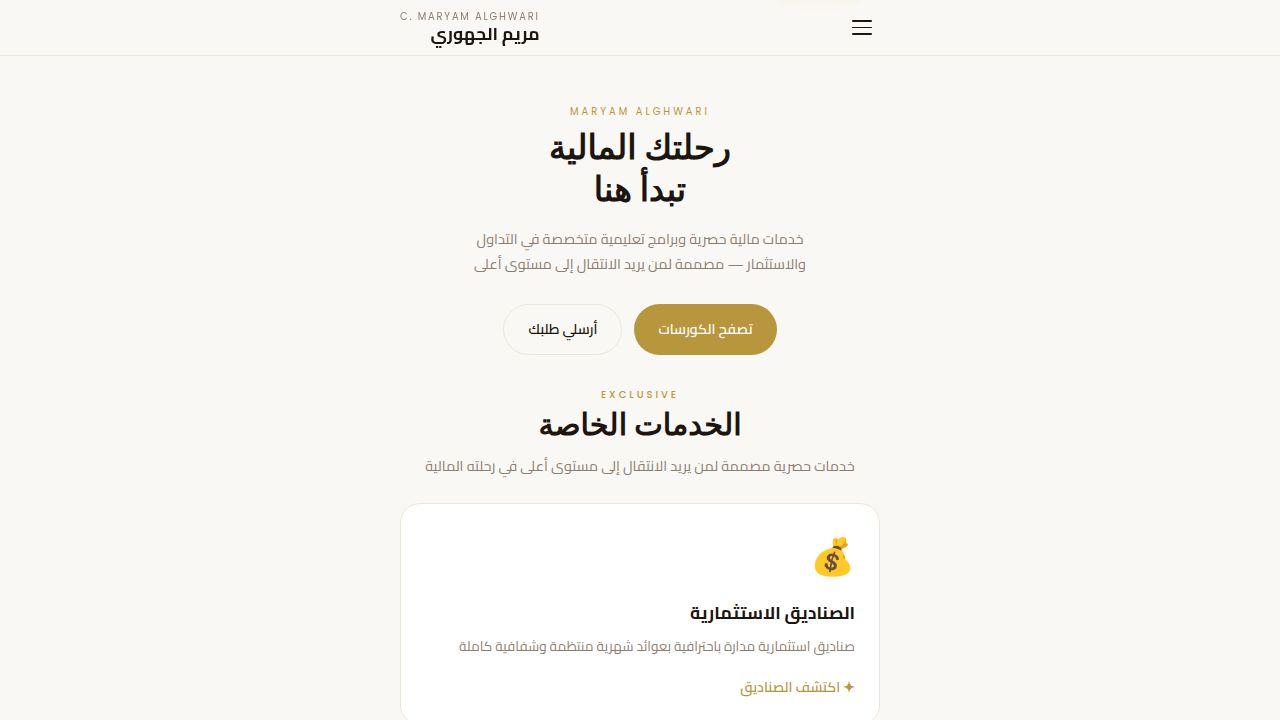
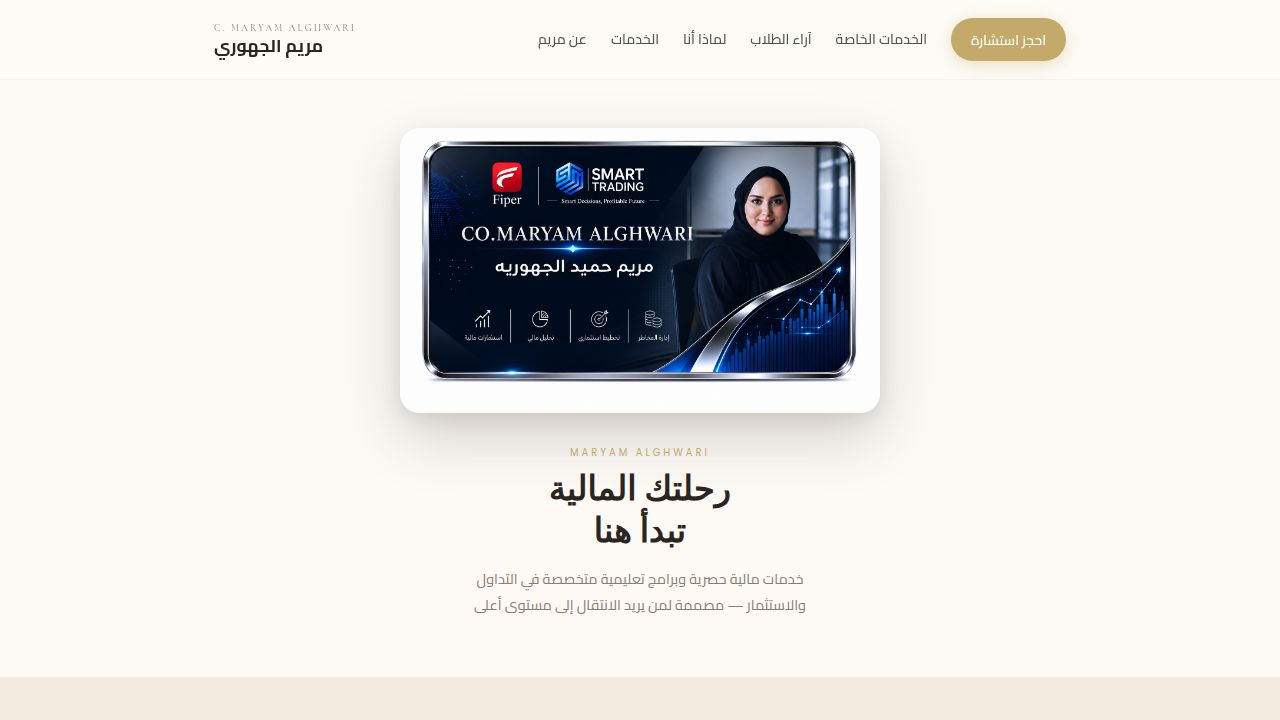
Add image to the financial journey section
Adds a new image to the hero section of the trading courses page and updates the server to serve static files from the public directory.

Replit-Commit-Author: Agent
Replit-Commit-Session-Id: cd811954-df86-4f2b-906e-686c9e095d0e
Replit-Commit-Checkpoint-Type: full_checkpoint
Replit-Commit-Event-Id: 3ccf5193-3b24-4c8f-bf66-b3141550a6aa
Replit-Commit-Screenshot-Url: https://storage.googleapis.com/screenshot-production-us-central1/88f454c8-2387-46a0-a1c7-ab1615058069/cd811954-df86-4f2b-906e-686c9e095d0e/Szr1Kxx
Replit-Helium-Checkpoint-Created: true

diff --git a/artifacts/trading-courses/index.html b/artifacts/trading-courses/index.html
@@ -219,6 +219,8 @@ body{font-family:var(--font-ar);background:var(--warm-white);color:var(--text);d
 
 /* ── Hero ── */
 .hero{text-align:center;padding:3rem 0 2rem}
+.hero-card-img{display:block;width:100%;max-width:640px;height:auto;margin:0 auto 2rem;border-radius:20px;box-shadow:0 24px 60px rgba(44,36,32,.2),0 6px 18px rgba(44,36,32,.08)}
+@media(max-width:600px){.hero-card-img{max-width:100%;border-radius:14px;margin-bottom:1.5rem}}
 .hero-label{font-family:var(--font-en);font-size:.62rem;letter-spacing:.3em;text-transform:uppercase;color:var(--gold);margin-bottom:.5rem}
 .hero-title{font-family:var(--font-serif);font-size:2.1rem;font-weight:600;line-height:1.25;margin-bottom:.875rem}
 .hero-desc{font-size:.9rem;color:var(--text-muted);max-width:340px;margin:0 auto 1.75rem;line-height:1.75}
@@ -673,6 +675,7 @@ body{font-family:var(--font-ar);background:var(--warm-white);color:var(--text);d
 <div class="view active" id="view-home">
   <div class="container">
     <div class="hero">
+      <img class="hero-card-img" src="maryam-card.png" alt="مريم حميد الجهورية - Co. Maryam Alghwari">
       <p class="hero-label">Maryam Alghwari</p>
       <h1 class="hero-title">رحلتك المالية<br>تبدأ هنا</h1>
       <p class="hero-desc">خدمات مالية حصرية وبرامج تعليمية متخصصة في التداول والاستثمار — مصممة لمن يريد الانتقال إلى مستوى أعلى</p>

diff --git a/artifacts/trading-courses/server.js b/artifacts/trading-courses/server.js
@@ -25,6 +25,19 @@ http.createServer((req, res) => {
     return;
   }
 
+  // Serve static files from public/
+  const safeUrl = req.url.split('?')[0];
+  if (safeUrl !== '/' && !safeUrl.startsWith('/api')) {
+    const filePath = path.join(__dirname, 'public', path.normalize(safeUrl).replace(/^(\.\.[/\\])+/, ''));
+    if (filePath.startsWith(path.join(__dirname, 'public')) && fs.existsSync(filePath) && fs.statSync(filePath).isFile()) {
+      const ext = path.extname(filePath).toLowerCase();
+      const types = { '.png':'image/png', '.jpg':'image/jpeg', '.jpeg':'image/jpeg', '.svg':'image/svg+xml', '.webp':'image/webp', '.gif':'image/gif', '.ico':'image/x-icon', '.txt':'text/plain' };
+      res.writeHead(200, { 'Content-Type': types[ext] || 'application/octet-stream', 'Cache-Control': 'public, max-age=3600' });
+      fs.createReadStream(filePath).pipe(res);
+      return;
+    }
+  }
+
   // Serve index.html for everything else
   fs.readFile(HTML, (err, data) => {
     if (err) { res.writeHead(500); res.end('Error'); return; }
